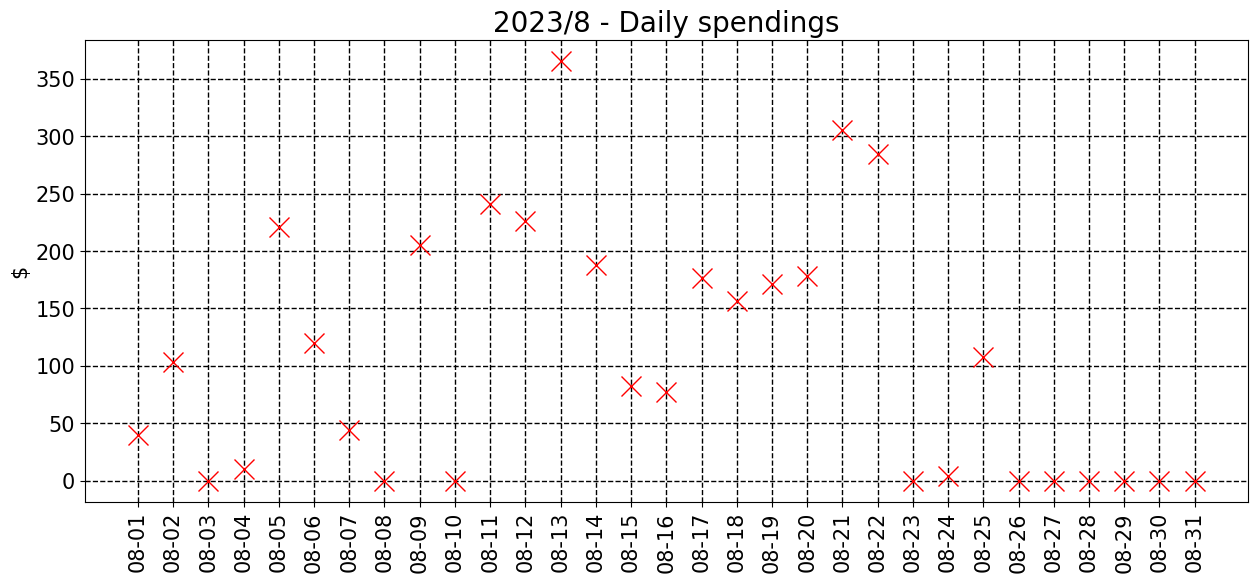
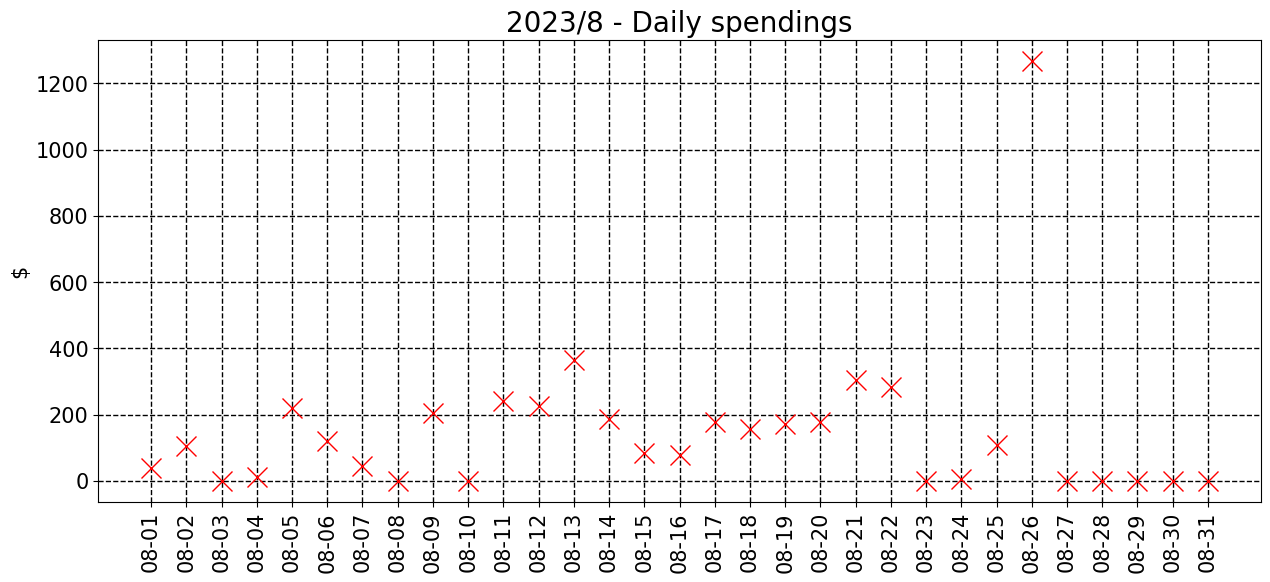
commit from python

Changed region(s): [[0.031, 0.0, 0.9928, 0.9897]]

diff --git a/README.md b/README.md
@@ -7,7 +7,7 @@ __________________________________
 <sub><sup>
 | Spent | Avg daily | End of month projection | Spent since 2023/7 |
 |---|---|---|---|
-| $3268.0  |  $125.7  | $3897.0  |  $3656.0  |
+| $4536.0  |  $174.5  | $5410.0  |  $4924.0  |
 </sub></sup>
 __________________________________
 ![graph_8_sum](graph_8_sum.png)
